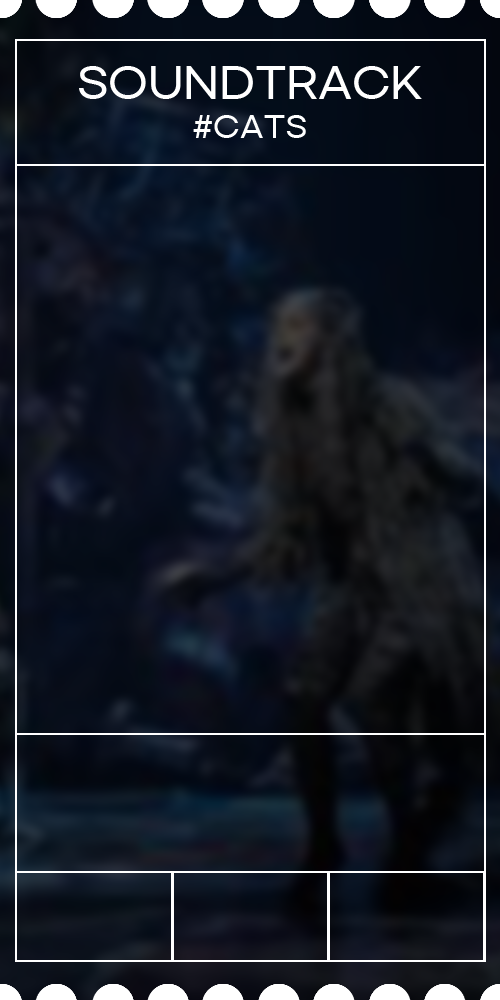
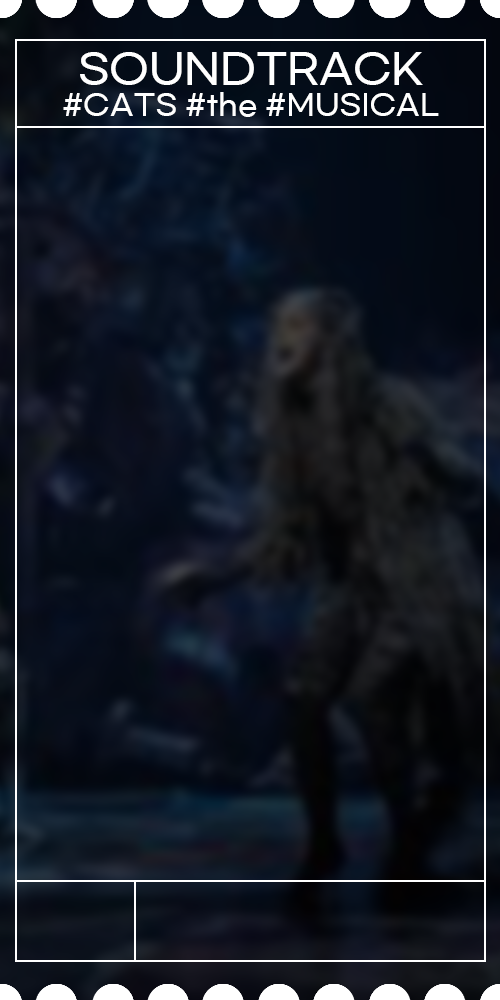
0114

Changed region(s): [[0.12, 0.031, 0.87, 0.155], [0.03, 0.868, 0.96, 0.961]]

diff --git a/index.html b/index.html
@@ -48,6 +48,10 @@
 <body>
     <div class="menu-container">
         <div class="menu">
+            <div class="mobile-only">
+                <img src="./img/Cats-Logo.png" alt="" class="menu-logo">
+                <button>X</button>
+            </div>
             <ul class="menu-contants">
                 <li>
                     <a href="#" class="m_text" data-target="section1">
@@ -249,16 +253,86 @@
 
         <section class="soundtrack-container section" id="section6">
             <div class="soundtrack-contants">
-                <div class="soundtrack front delayed-element">
+                <div class="soundtrack front">
                     <img src="./img/soundtrack_front.png" alt="">
                 </div>
-                <div class="soundtrack back delayed-element">
+                <div class="soundtrack back">
                     <img src="./img/soundtrack_back.png" alt="">
+                    <ul class="soundtrack-playlist">
+                        <li>
+                            <p>The Overture</p>
+                        </li>
+                        <li>
+                            <p>Prologe:Jellicle Songd For Jellicle Cats</p>
+                        </li>
+                        <li>
+                            <p>The Naming Of Cats</p>
+                        </li>
+                        <li>
+                            <p>The Invitation To The Jellicle Ball</p>
+                        </li>
+                        <li>
+                            <p>The Old Gumbie Cat</p>
+                        </li>
+                        <li>
+                            <p>The Rum Tum Tugger</p>
+                        </li>
+                        <li>
+                            <p>Grizabella:The Glamour Cat</p>
+                        </li>
+                        <li>
+                            <p>Bustopher Jones</p>
+                        </li>
+                        <li>
+                            <p>Mungojerrie And Rumpelteazer</p>
+                        </li>
+                        <li>
+                            <p>Old Deuteronomy</p>
+                        </li>
+                        <li>
+                            <p>The jellicle Ball</p>
+                        </li>
+                        <li>
+                            <p>Grizabella:The Glamour Cat</p>
+                        </li>
+                        <li>
+                            <p>End Of Act 1 : Memory</p>
+                        </li>
+                        <li>
+                            <p>The Moments Of Happiness</p>
+                        </li>
+                        <li>
+                            <p>Gus:The Theatre Cat</p>
+                        </li>
+                        <li>
+                            <p>Growltiger’s Last Stands /The Ballad Of Billy McCaw</p>
+                        </li>
+                        <li>
+                            <p>Memory</p>
+                        </li>
+                        <li>
+                            <p>Skimbleshanks:The Railway Cat</p>
+                        </li>
+                        <li>
+                            <p>macavity: The Mystery Cat</p>
+                        </li>
+                        <li>
+                            <p>Mr.Mistoffelees</p>
+                        </li>
+                        <li>
+                            <p>The Journy To The Heavside Layer</p>
+                        </li>
+                        <li>
+                            <p>The Ad-Dressing Of Cats</p>
+                        </li>
+                        <li>
+                            <p>Memory - Radio Edit</p>
+                        </li>
+                    </ul>
                     <div class="sound-button">
-                        <button class="sound-prev"></button>
-                        <button class="sound-play"></button>
-                        <button class="sound-stop"></button>
-                        <button class="sound-next"></button>
+                        <a href="https://open.spotify.com/album/66UrYsmX0lRzAOwLxkPgjl?si=UO3aAeM8Tc61N8kkqxNIHQ" target="_blank">
+                            <img src="./img/arrow.png" alt="">
+                        </a>
                     </div>
                 </div>
             </div>
@@ -320,11 +394,6 @@
                     <li>
                         <a href="https://www.youtube.com/user/catsmusical" target="_blank" class="sns">
                             <img src="./img/sns/youtube.png" alt="">
-                        </a>
-                    </li>
-                    <li>
-                        <a href="https://open.spotify.com/album/36bEg6FTBaZGLg9ngJZIU6" target="_blank" class="sns">
-                            <img src="./img/sns/spotify.png" alt="">
                         </a>
                     </li>
                 </ul>

diff --git a/css/mobile.css b/css/mobile.css
@@ -35,25 +35,48 @@
     /* 메뉴 시작 */
     .menu-container {
         width: 100%;
-        height: 40px;
+        min-height: 100vh;
         position: fixed;
         top: 0;
         z-index: 1000;
+        left: -1000px;
     }
     
     .menu {
+        width: 100%;
+        min-height: 100vh;
+        
+        position: relative;
         display: flex;
+        flex-direction: column;
         justify-content: center;
+        align-items: center;
     
         background-color: #000;
     }
-    
-    .menu-contants {
+
+    .mobile-only {
+        opacity: 1;
+        position: relative;
         display: flex;
         justify-content: center;
-        width: 1050px;
+        align-items: center;
     }
     
+    .menu-logo {
+        position: relative;
+        width: 100px;
+        margin-bottom: 50px;
+    }
+    
+    .menu-contants {
+        height: 400px;
+        display: flex;
+        justify-content: space-between;
+        flex-direction: column;
+        align-items: center;
+    }
+
     .m_text {
         padding: 20px;  
         text-align: center;
@@ -486,8 +509,6 @@
 
     .soundtrack-contants {
         position: relative;
-        width: 750px;
-        min-height: 100vh;
 
         display: flex;
         justify-content: center;
@@ -502,13 +523,15 @@
     }
 
     .soundtrack-contants > .front {
+        height: 620px;
         top: 5%;
         left: 0;
         transform: rotate(-4deg);
     }
 
     .soundtrack-contants > .back {
-        bottom: 5%;
+        height: 620px;
+        bottom: 0%;
         right: 0;
         transform: rotate(5deg);
 
@@ -517,7 +540,7 @@
     }
 
     .soundtrack > img {
-        height: 750px;
+        height: 600px;
     }
 
     .sound-button {

diff --git a/css/style.css b/css/style.css
@@ -50,6 +50,10 @@
         background-color: #000;
     }
 
+    .mobile-only {
+        display: none;
+    }
+
     .menu-contants {
         display: flex;
         justify-content: center;
@@ -499,9 +503,9 @@
     }
 
     .soundtrack-contants > .back {
-        bottom: 5%;
+        /* bottom: 5%;
         right: 0;
-        transform: rotate(5deg);
+        transform: rotate(5deg); */
 
         display: flex;
         justify-content: center;
@@ -511,17 +515,29 @@
         height: 750px;
     }
 
+    .soundtrack-playlist {
+        width: 100%;
+        height: 530px;
+        
+        position: absolute;
+        display: flex;
+        flex-direction: column;
+        justify-content: space-between;
+        left: 7%;
+        top: 15%;
+        color: #fff;
+    }
+
     .sound-button {
-        width: 75%;
         position: absolute;
         display: flex;
         justify-content: space-between;
-        bottom: 5%;
+        bottom: 5.5%;
+        left: 13%;
     }
 
-    .sound-button > button {
-        width: 50px;
-        height: 50px;
+    .sound-button > a > img {
+        height: 40px;
     }
     /* 사운드트랙 끝 */
 

diff --git a/css/tablet.css b/css/tablet.css
@@ -48,6 +48,10 @@
     
         background-color: #000;
     }
+
+    .mobile-only {
+        display: none;
+    }
     
     .menu-contants {
         display: flex;
